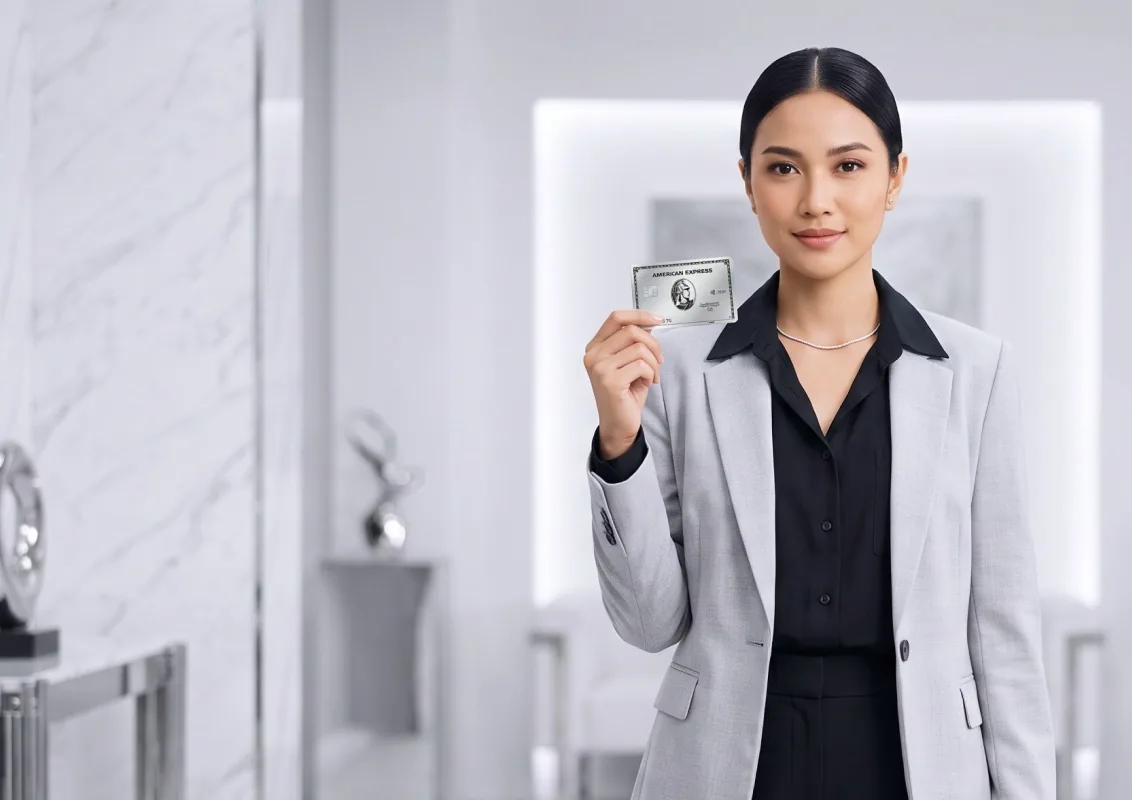
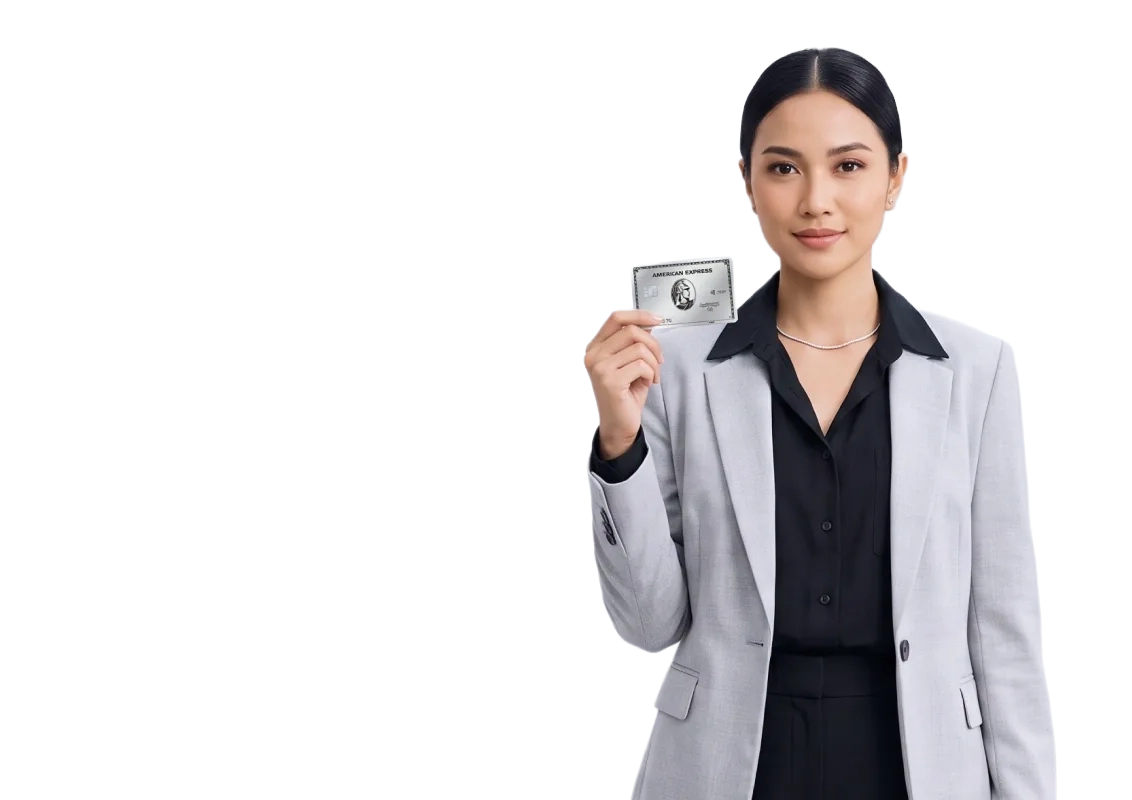
Split product card photos into subject + background layers
Each card photo is now a transparent subject cutout over an opaque
background scene, so the two layers zoom in opposite directions on
hover (background 1.02x -> 1x, subject 1x -> 1.02x) for a subtle
parallax. Adds dedicated Simpanan photography and re-exports the
Kartu Kredit photos as cutouts with matching backgrounds.

diff --git a/src/components/home/product-data.ts b/src/components/home/product-data.ts
@@ -2,6 +2,7 @@ export type Product = {
   title: string;
   subtitle: string;
   image: string;
+  imageBg: string;
 };
 
 export type ProductCategory = {
@@ -11,11 +12,20 @@ export type ProductCategory = {
   products: Product[];
 };
 
-// The Kartu Kredit trio is the one fully specced in the design; other categories
-// reuse the same photography with their own copy for this revamp prototype.
-const EVERYDAY = "/assets/product/card-everyday.webp";
-const MASTERCARD = "/assets/product/card-mastercard.webp";
-const AMEX = "/assets/product/card-amex.webp";
+// Each card photo is split into a transparent subject cutout (`image`) and an
+// opaque background scene (`imageBg`) so the two layers can zoom in opposite
+// directions on hover (background out, subject in).
+const asset = (name: string): Pick<Product, "image" | "imageBg"> => ({
+  image: `/assets/product/${name}.webp`,
+  imageBg: `/assets/product/${name}-bg.webp`,
+});
+
+const EVERYDAY = asset("card-everyday");
+const MASTERCARD = asset("card-mastercard");
+const AMEX = asset("card-amex");
+const SIMPANAN_1 = asset("card-simpanan-1");
+const SIMPANAN_2 = asset("card-simpanan-2");
+const SIMPANAN_3 = asset("card-simpanan-3");
 
 export const PRODUCT_CATEGORIES: ProductCategory[] = [
   {
@@ -23,9 +33,9 @@ export const PRODUCT_CATEGORIES: ProductCategory[] = [
     label: "Simpanan",
     ctaLabel: "Lihat pilihan Simpanan lainnya",
     products: [
-      { title: "Tahapan BCA", subtitle: "Tabungan andalan untuk transaksi sehari-hari", image: EVERYDAY },
-      { title: "Tahapan Xpresi", subtitle: "Tabungan anak muda dengan kartu custom", image: MASTERCARD },
-      { title: "BCA Dollar", subtitle: "Simpanan valuta asing USD dan SGD", image: AMEX },
+      { title: "Tahapan BCA", subtitle: "Tabungan andalan untuk transaksi sehari-hari", ...SIMPANAN_1 },
+      { title: "Tahapan Xpresi", subtitle: "Tabungan anak muda dengan kartu custom", ...SIMPANAN_2 },
+      { title: "BCA Dollar", subtitle: "Simpanan valuta asing USD dan SGD", ...SIMPANAN_3 },
     ],
   },
   {
@@ -33,9 +43,9 @@ export const PRODUCT_CATEGORIES: ProductCategory[] = [
     label: "Kartu Kredit",
     ctaLabel: "Lihat pilihan Kartu Kredit lainnya",
     products: [
-      { title: "BCA Everyday Card", subtitle: "Tiap hari belanja, tiap hari untung", image: EVERYDAY },
-      { title: "BCA Mastercard Black", subtitle: "Experience the ultimate privilege", image: MASTERCARD },
-      { title: "BCA American Express Platinum", subtitle: "For the finest things in life", image: AMEX },
+      { title: "BCA Everyday Card", subtitle: "Tiap hari belanja, tiap hari untung", ...EVERYDAY },
+      { title: "BCA Mastercard Black", subtitle: "Experience the ultimate privilege", ...MASTERCARD },
+      { title: "BCA American Express Platinum", subtitle: "For the finest things in life", ...AMEX },
     ],
   },
   {
@@ -43,9 +53,9 @@ export const PRODUCT_CATEGORIES: ProductCategory[] = [
     label: "Pinjaman",
     ctaLabel: "Lihat pilihan Pinjaman lainnya",
     products: [
-      { title: "KPR BCA", subtitle: "Wujudkan rumah impian dengan bunga kompetitif", image: EVERYDAY },
-      { title: "KKB BCA", subtitle: "Kredit kendaraan bermotor proses cepat", image: MASTERCARD },
-      { title: "Kredit Tanpa Agunan", subtitle: "Dana cepat tanpa jaminan untuk kebutuhanmu", image: AMEX },
+      { title: "KPR BCA", subtitle: "Wujudkan rumah impian dengan bunga kompetitif", ...EVERYDAY },
+      { title: "KKB BCA", subtitle: "Kredit kendaraan bermotor proses cepat", ...MASTERCARD },
+      { title: "Kredit Tanpa Agunan", subtitle: "Dana cepat tanpa jaminan untuk kebutuhanmu", ...AMEX },
     ],
   },
   {
@@ -53,9 +63,9 @@ export const PRODUCT_CATEGORIES: ProductCategory[] = [
     label: "Investasi",
     ctaLabel: "Lihat pilihan Investasi lainnya",
     products: [
-      { title: "Reksa Dana BCA", subtitle: "Investasi mudah mulai dari Rp100 ribu", image: EVERYDAY },
-      { title: "Welma", subtitle: "Platform investasi & asuransi digital BCA", image: MASTERCARD },
-      { title: "Obligasi Negara", subtitle: "Investasi surat utang dengan imbal hasil tetap", image: AMEX },
+      { title: "Reksa Dana BCA", subtitle: "Investasi mudah mulai dari Rp100 ribu", ...EVERYDAY },
+      { title: "Welma", subtitle: "Platform investasi & asuransi digital BCA", ...MASTERCARD },
+      { title: "Obligasi Negara", subtitle: "Investasi surat utang dengan imbal hasil tetap", ...AMEX },
     ],
   },
   {
@@ -63,9 +73,9 @@ export const PRODUCT_CATEGORIES: ProductCategory[] = [
     label: "Asuransi",
     ctaLabel: "Lihat pilihan Asuransi lainnya",
     products: [
-      { title: "BCA Life Proteksi", subtitle: "Proteksi jiwa dengan premi terjangkau", image: EVERYDAY },
-      { title: "Asuransi Kesehatan", subtitle: "Perlindungan biaya rumah sakit lebih tenang", image: MASTERCARD },
-      { title: "Asuransi Kendaraan", subtitle: "Proteksi kendaraan dari risiko tak terduga", image: AMEX },
+      { title: "BCA Life Proteksi", subtitle: "Proteksi jiwa dengan premi terjangkau", ...EVERYDAY },
+      { title: "Asuransi Kesehatan", subtitle: "Perlindungan biaya rumah sakit lebih tenang", ...MASTERCARD },
+      { title: "Asuransi Kendaraan", subtitle: "Proteksi kendaraan dari risiko tak terduga", ...AMEX },
     ],
   },
 ];

diff --git a/src/components/home/ProductSection.tsx b/src/components/home/ProductSection.tsx
@@ -106,10 +106,17 @@ function ProductCard({
         className="absolute inset-y-0 right-0 w-[566px] transition-transform duration-500 ease-[cubic-bezier(0.4,0,0.2,1)]"
         style={{ transform: active ? "translateX(0)" : "translateX(96px)" }}
       >
+        {/* Background scene — zooms 1.02x -> 1x on hover */}
+        <img
+          src={product.imageBg}
+          alt=""
+          className="absolute inset-0 size-full scale-[1.02] object-cover transition-transform duration-500 ease-out group-hover:scale-100"
+        />
+        {/* Subject cutout on top — zooms 1x -> 1.02x on hover (inverse of bg) */}
         <img
           src={product.image}
           alt=""
-          className="size-full object-cover transition-transform duration-500 ease-out group-hover:scale-105"
+          className="absolute inset-0 size-full scale-100 object-cover transition-transform duration-500 ease-out group-hover:scale-[1.02]"
         />
       </div>
 
